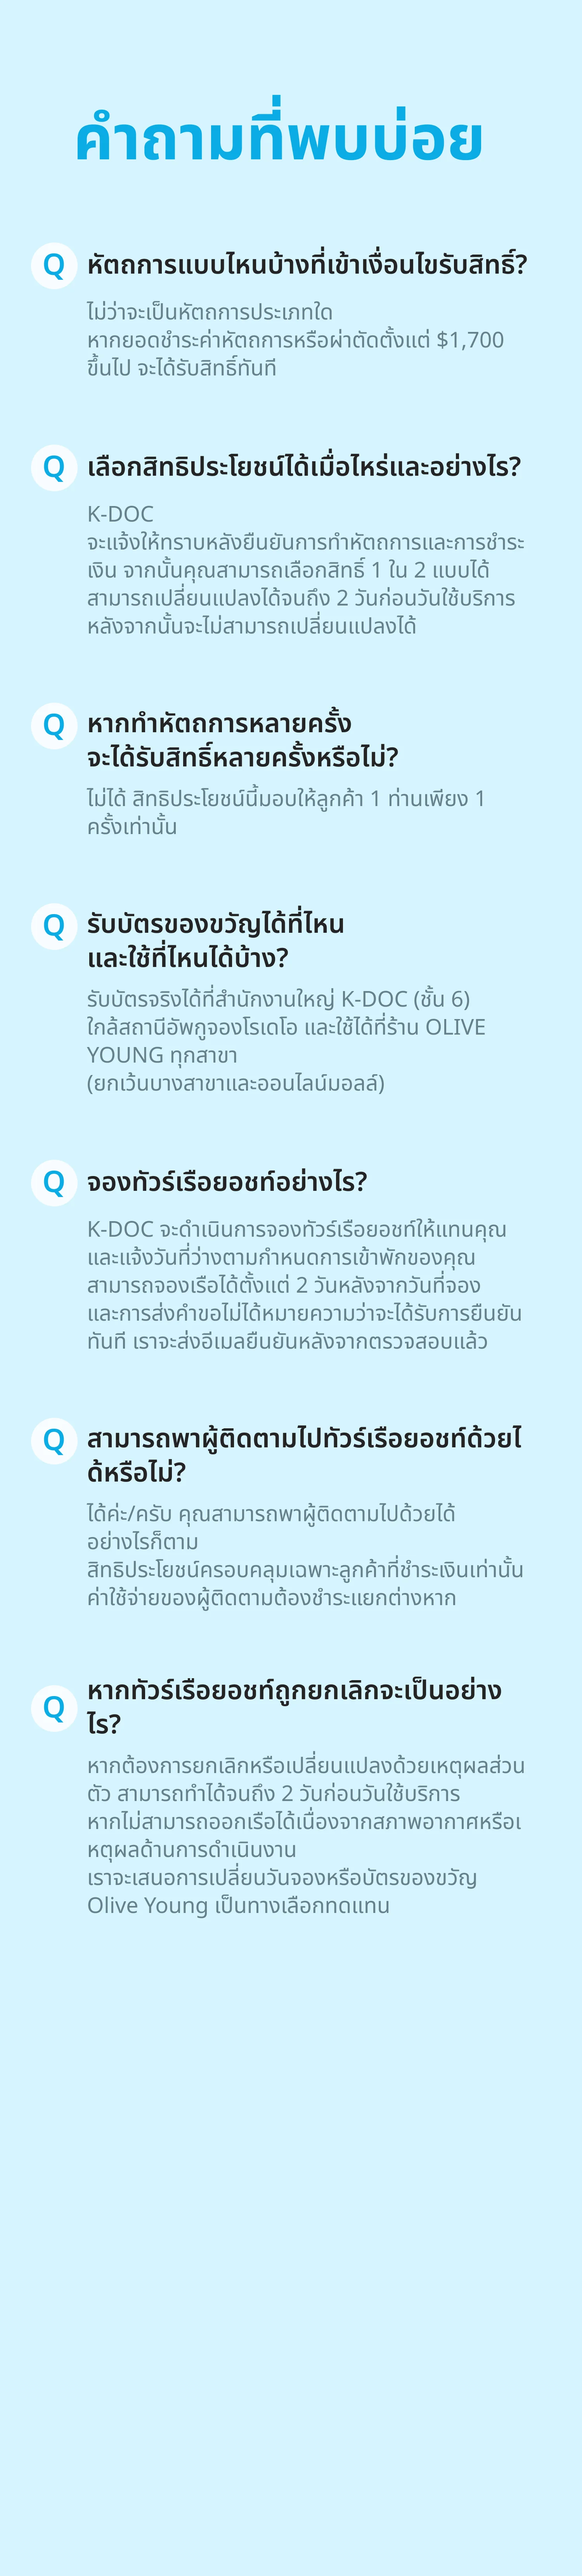
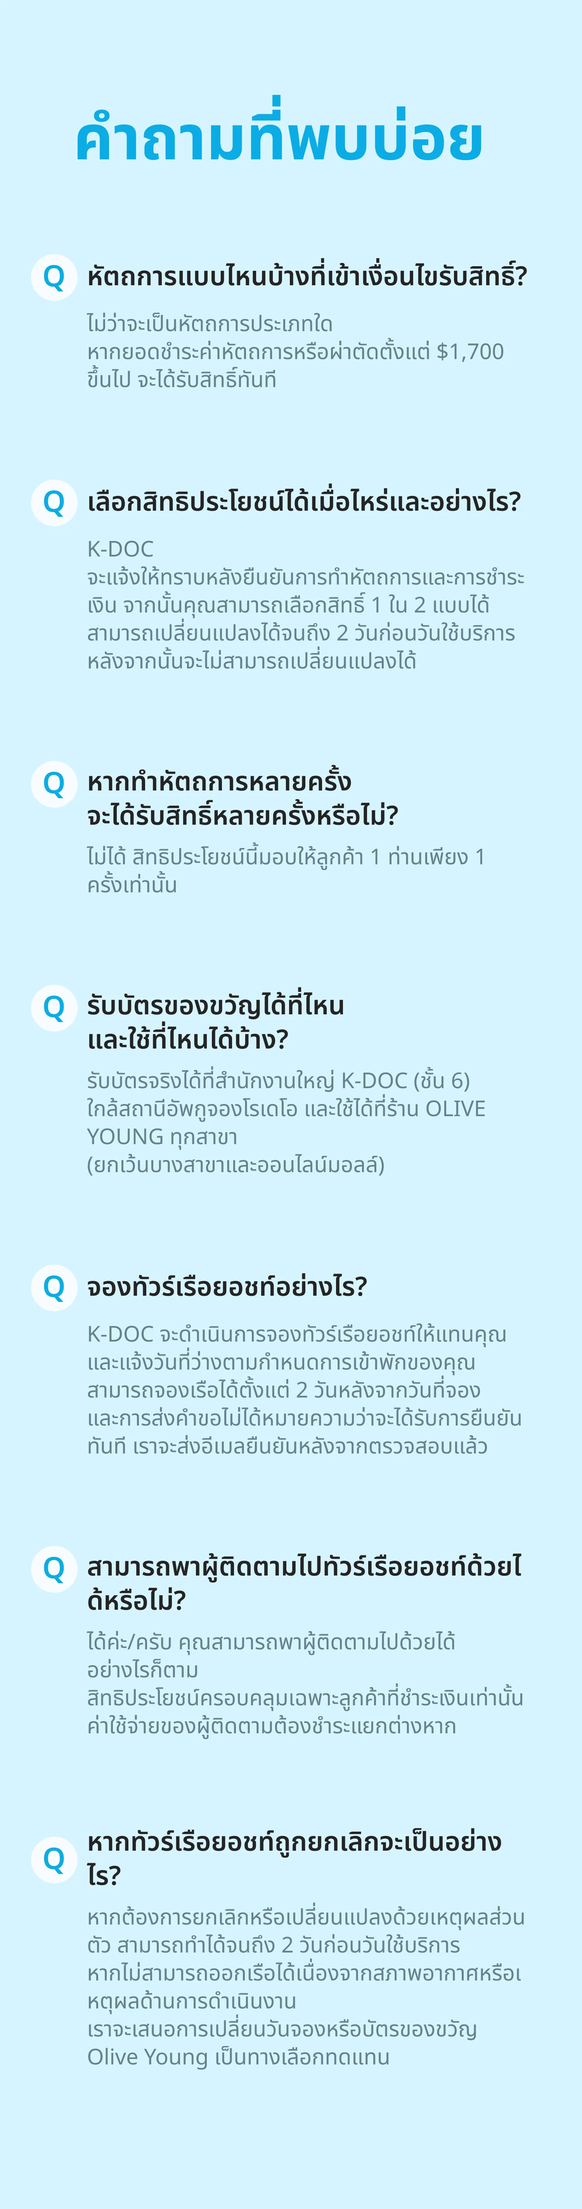
fix(pick-your-gift): Update FAQ image dimensions and replace images across multiple languages
- Adjusted the height of the FAQ section image from 6628 to 5684 pixels for better layout consistency.
- Replaced the FAQ images in Arabic, English, Hindi, Japanese, Korean, Russian, Thai, Tagalog, and Traditional Chinese to ensure updated visuals are used across all supported languages.

diff --git a/widgets/pick-your-gift/model/sections.ts b/widgets/pick-your-gift/model/sections.ts
@@ -27,7 +27,7 @@ export const PICK_YOUR_GIFT_SECTIONS: EventSection[] = [
   { id: '4_option2', width: 1500, height: 2804, alt: 'Option 2 — Korea Han-River experience' },
   { id: '5_option_notice', width: 1500, height: 2376, alt: 'Option terms of use' },
   { id: '6_how', width: 1500, height: 3142, alt: 'How to get your gift' },
-  { id: '7_faq', width: 1500, height: 6628, alt: 'Frequently asked questions' },
+  { id: '7_faq', width: 1500, height: 5684, alt: 'Frequently asked questions' },
   { id: '8_full_banner', width: 1500, height: 1300, alt: 'Ready to choose your gift' },
   { id: '9_final_notice', width: 1500, height: 2724, alt: 'Terms and conditions' },
 ];
